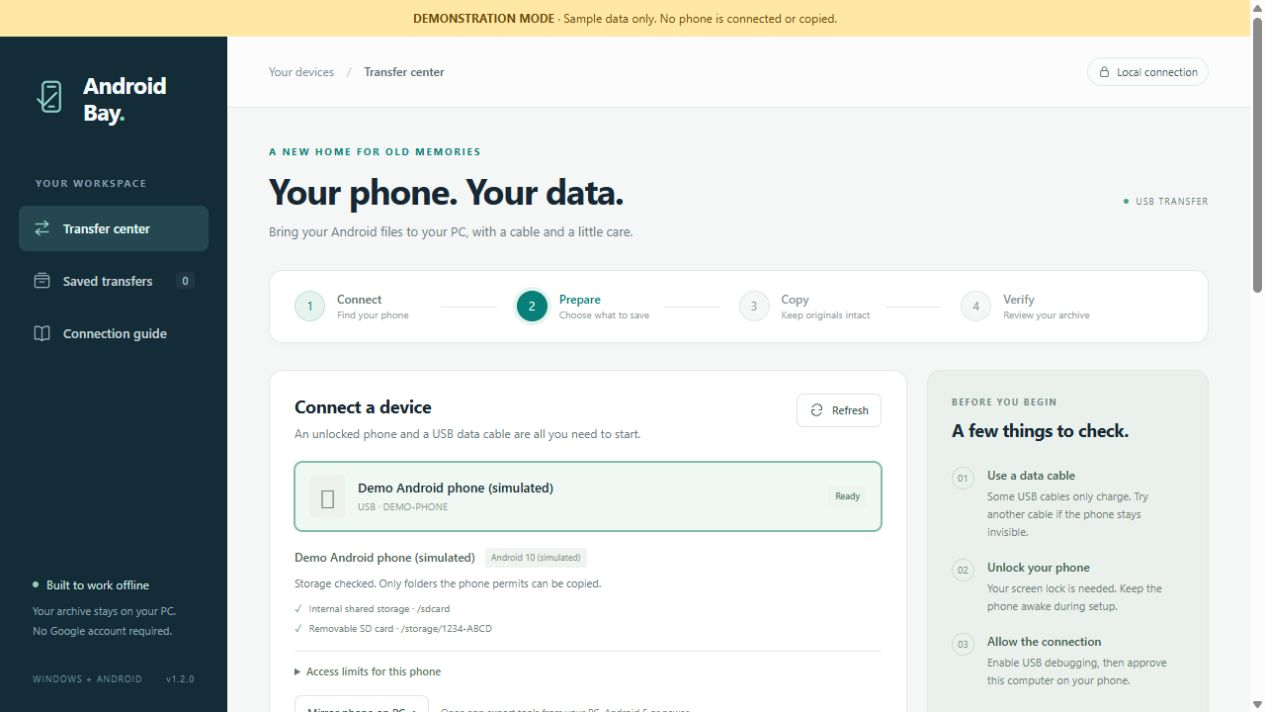
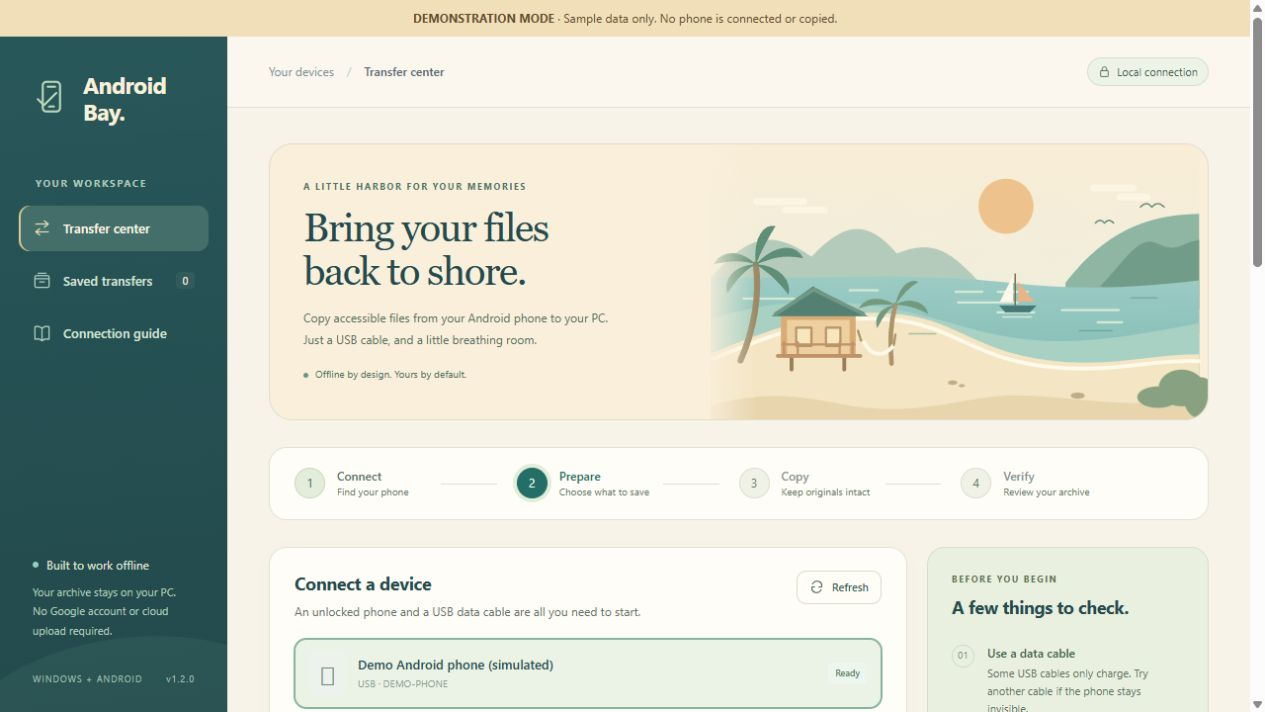
Add a coastal theme to the transfer center and archive reader
Use sea-green navigation, warm sand surfaces and an original inline SVG cove illustration. Keep decorative artwork outside saved conversations, hide it from assistive technology and avoid remote assets. Make compact navigation horizontally scrollable so every section remains reachable.

Clarify that no Google account or cloud upload is required. Refresh the README preview using synthetic demo data only.

Validation: checked both pages at desktop width and a 390-pixel viewport; exercised synthetic message selection, photo browsing and compact navigation with no console errors. All 30 focused server tests passed. No acquisition or archive-processing code changed.

diff --git a/web/index.html b/web/index.html
@@ -21,7 +21,7 @@
         <button class="nav-item" data-view="history"><svg viewBox="0 0 24 24" aria-hidden="true"><rect x="3" y="6" width="18" height="15" rx="2"/><path d="M3 10h18M7 3h10M9 14h6"/></svg>Saved transfers<span id="history-count" class="nav-count">0</span></button>
         <button class="nav-item" data-view="guide"><svg viewBox="0 0 24 24" aria-hidden="true"><path d="M12 21V5M3 3c4-1 7 0 9 2 2-2 5-3 9-2v16c-4-1-7 0-9 2-2-2-5-3-9-2z"/></svg>Connection guide</button>
       </nav>
-      <div class="sidebar-bottom"><div class="local-note"><span class="local-dot" aria-hidden="true"></span>Built to work offline</div><p>Your archive stays on your PC.<br>No Google account required.</p><div class="sidebar-version">WINDOWS + ANDROID <span id="version-label">v1.0</span></div></div>
+      <div class="sidebar-bottom"><div class="local-note"><span class="local-dot" aria-hidden="true"></span>Built to work offline</div><p>Your archive stays on your PC.<br>No Google account or cloud upload required.</p><div class="sidebar-version">WINDOWS + ANDROID <span id="version-label">v1.0</span></div></div>
     </aside>
 
     <div class="workspace">
@@ -31,7 +31,31 @@
         <div id="loading-state" class="loading-strip" role="status"><span class="spinner" aria-hidden="true"></span>Connecting to your local transfer service…</div>
 
         <section id="view-transfer" class="view" aria-labelledby="transfer-heading">
-          <div class="page-heading"><div><div class="eyebrow">A NEW HOME FOR OLD MEMORIES</div><h1 id="transfer-heading">Your phone. Your data.</h1><p>Bring your Android files to your PC, with a cable and a little care.</p></div><span class="connection-type"><span class="small-dot"></span> USB TRANSFER</span></div>
+          <div class="page-heading cove-heading"><div class="cove-copy"><div class="eyebrow">A LITTLE HARBOR FOR YOUR MEMORIES</div><h1 id="transfer-heading">Bring your files<br>back to shore.</h1><p>Copy accessible files from your Android phone to your PC.<br class="desktop-break"> Just a USB cable, and a little breathing room.</p><span class="cove-caption"><span class="small-dot"></span> Offline by design. Yours by default.</span></div><div class="cove-art" aria-hidden="true">
+<svg class="cove-scene" viewBox="0 0 640 360" xmlns="http://www.w3.org/2000/svg" focusable="false">
+  <defs><linearGradient id="cove-sky" x2="0" y2="1"><stop stop-color="#f9edd6"/><stop offset="1" stop-color="#e8eee0"/></linearGradient><linearGradient id="cove-water" x2="0" y2="1"><stop stop-color="#9ccbc4"/><stop offset="1" stop-color="#75b6ae"/></linearGradient></defs>
+  <path fill="url(#cove-sky)" d="M0 0h640v360H0z"/>
+  <circle cx="387" cy="81" r="36" fill="#edc28c"/>
+  <path d="M60 75h62m-25 11h52m352-29h53m-18 12h36" stroke="#fff9e9" stroke-width="9" opacity=".65"/>
+  <path d="M0 175c54-65 88-58 132-28 42-44 72-51 112-4 48-20 71-3 112 42H0z" fill="#b4cbbb"/>
+  <path d="M465 181c55-71 112-89 175-90v157H462z" fill="#8fb5a3"/>
+  <path d="M510 186c31-31 50-67 73-57 31 14 29 1 57-4v91z" fill="#719c8a"/>
+  <path d="M0 173c123 5 258-7 390 8 81 9 151 9 250-3v182H0z" fill="url(#cove-water)"/>
+  <path d="M0 229c129-42 233-19 325 8 102 30 170 26 315-3v126H0z" fill="#a9d1c3"/>
+  <path d="M0 274c96-40 164-61 251-51 77 9 100 54 214 62 66 5 121-11 175-10v85H0z" fill="#f4e5c4"/>
+  <path d="M0 282c93-38 159-63 249-51 76 10 102 56 215 62 75 4 117-12 176-9" fill="none" stroke="#fff9e9" stroke-width="5"/>
+  <path d="M0 341c72-17 108-13 170-1 98 19 158-9 218-11 76-2 130 17 252 7v24H0z" fill="#e8d5ae"/>
+  <g fill="none" stroke="#e4f1dc" stroke-width="3" opacity=".8"><path d="M321 193h35m20 0h39m-91 14h78m-26 13h48M43 202h67m350 15h75m-28 16h32M182 191h37"/></g>
+  <g fill="none" stroke="#528a83" stroke-width="2" opacity=".45"><path d="M260 248h35m188-4h43m25-43h34M121 228h35"/></g>
+  <g transform="translate(393 180)"><path d="M-15 31h49l-9 9H-7z" fill="#477879"/><path d="M6-10v41" stroke="#846e50" stroke-width="2"/><path d="M3-8-14 26H3z" fill="#fff8e8"/><path d="M10 0v26h21z" fill="#eab486"/><path d="M-10 46h37" stroke="#d5e8d6" stroke-width="2"/></g>
+  <g transform="translate(92 193)"><path d="M0 31h98v53H0z" fill="#d9ac77"/><path d="M8 37h82v47H8z" fill="#eed0a0"/><path d="M-12 32 42-7l72 39z" fill="#547f73"/><path d="M-7 29 43-3l65 32" fill="none" stroke="#719886" stroke-width="5"/><path d="M20 47h20v24H20zm39 0h19v24H59z" fill="#f7e7bb" stroke="#ba946b" stroke-width="3"/><path d="M14 84v18m69-18v18" stroke="#9c7c59" stroke-width="5"/><path d="M-4 84h108" stroke="#c09268" stroke-width="5"/><path d="M2 69h94" stroke="#c09268" stroke-width="3"/><path d="M4 66v18m18-18v18m55-18v18m17-18v18" stroke="#c09268" stroke-width="3"/></g>
+  <g><path d="M39 283c17-38 26-86 20-126" fill="none" stroke="#9d8a65" stroke-width="8"/><path d="M59 157c-26-25-49-13-55 0 22-5 39-5 55 0M59 157c-31 1-43 23-37 38 12-18 21-29 37-38M59 157c-4-35 11-54 26-50-12 19-19 34-26 50M59 157c31-32 56-23 62-8-28-5-39 0-62 8M59 157c31 1 48 22 43 40-16-21-28-30-43-40" fill="#5e8e76"/></g>
+  <g><path d="M237 287c-2-30-2-51 5-77" fill="none" stroke="#ad946b" stroke-width="6"/><path d="M242 210c-25-15-43-6-48 5 20-7 30-5 48-5M242 210c-22 4-28 18-24 31 8-15 12-22 24-31M242 210c5-25 19-35 30-30-13 8-21 18-30 30M242 210c20-12 41-2 43 12-17-9-28-11-43-12" fill="#73997e"/>
+  <path d="M201 259c8 16 24 23 39 4" fill="none" stroke="#fff8e7" stroke-width="5"/><path d="M197 257l-4-13m47 19 2-14" stroke="#ad946b" stroke-width="3"/></g>
+  <path d="M563 82q8-9 15 0 8-9 16 0M504 103q6-7 12 0 6-7 12 0" fill="none" stroke="#688b80" stroke-width="2"/>
+  <g fill="#88a180"><ellipse cx="586" cy="331" rx="27" ry="14"/><ellipse cx="617" cy="319" rx="30" ry="24"/><ellipse cx="642" cy="332" rx="22" ry="27"/></g>
+  <g fill="#c0ad87"><ellipse cx="317" cy="312" rx="6" ry="3"/><ellipse cx="329" cy="316" rx="4" ry="2"/><ellipse cx="481" cy="329" rx="9" ry="4"/></g>
+</svg></div></div>
           <ol class="stepper" aria-label="Transfer workflow">
             <li class="current" id="step-connect"><span class="step-number">1</span><span><strong>Connect</strong><small>Find your phone</small></span></li>
             <li id="step-prepare"><span class="step-number">2</span><span><strong>Prepare</strong><small>Choose what to save</small></span></li>
@@ -62,7 +86,7 @@
           <section id="active-job-panel" class="panel job-panel" aria-labelledby="job-heading" hidden><div class="panel-heading"><div><div class="section-kicker">YOUR TRANSFER</div><h2 id="job-heading">Copying to your PC</h2><p id="job-message" role="status"></p></div><span id="job-status" class="status-badge"></span></div><div class="progress-labels"><span id="job-phase">Preparing</span><span id="job-percent"></span></div><div id="job-progress" class="progress-track" role="progressbar" aria-label="Transfer progress" aria-valuemin="0" aria-valuemax="100"><div id="job-progress-fill"></div></div><div class="job-stats"><div><span>FILES COPIED</span><strong id="job-file-count">0</strong></div><div><span>DATA COPIED</span><strong id="job-byte-count">0 B</strong></div><div class="job-destination"><span>ARCHIVE FOLDER</span><strong id="job-destination"></strong></div></div><div class="job-actions"><button id="cancel-job" class="button button-secondary button-small">Stop transfer</button><button id="resume-job" class="button button-primary button-small" hidden>Resume transfer</button><button id="verify-job" class="button button-secondary button-small" hidden>Verify saved files</button><button id="open-job-reader" class="button button-primary button-small">Read messages &amp; media</button><button id="open-job-catalog" class="button button-secondary button-small">Browse saved files</button><button id="open-job-folder" class="button button-secondary button-small">Open archive folder</button><button id="open-job-context" class="text-button" hidden>Device activity report</button><button id="open-job-report" class="text-button">Open coverage report <span aria-hidden="true">↗</span></button></div><div id="verify-result" class="verification-result" role="status" hidden></div><section id="archive-checks" class="archive-checks" aria-labelledby="archive-checks-heading" hidden><h3 id="archive-checks-heading">Deleted items &amp; location data</h3><p>Check accessible phone trash and saved copies for trash files, explicitly deleted message records, GPS metadata and map exports. Findings stay in separate folders. Permanently erased data and private app histories may be unavailable.</p><div class="job-actions"><button id="analyze-job" class="button button-secondary button-small">Check deleted items &amp; locations</button><button id="open-job-trash" class="text-button" hidden>Phone trash report ↗</button><button id="open-job-deleted" class="text-button" hidden>Deleted-item report ↗</button><button id="open-job-locations" class="text-button" hidden>Location report ↗</button></div><div id="analysis-results" class="analysis-results" role="status"></div></section><div id="job-coverage" class="job-coverage"></div><details id="job-errors" class="error-details" hidden><summary id="job-error-summary">Items that need attention</summary><ul id="job-error-list"></ul></details></section>
 
           <section class="coverage-note" aria-labelledby="coverage-heading"><div class="information-icon" aria-hidden="true">i</div><div><h2 id="coverage-heading">Know what your archive includes.</h2><p>Android protects some data even when you know the phone’s login. Private app data, RCS chats, permanently erased files, cloud-only content and saved passwords may be unavailable. This app reports accessible files, failed copies and missing categories so a finished transfer is never mistaken for a complete phone backup.</p><button class="text-button" data-open-coverage>See data coverage &amp; limitations <span aria-hidden="true">→</span></button></div></section>
-          <footer class="page-footer"><span>MADE FOR THE DEVICES YOU STILL CARE ABOUT.</span><span>Offline by design. Yours by default.</span></footer>
+          <footer class="page-footer"><span>A QUIET LITTLE BAY. A PLACE FOR WHAT MATTERS.</span><span>Offline by design. Yours by default.</span></footer>
         </section>
 
         <section id="view-history" class="view" aria-labelledby="history-heading" hidden><div class="page-heading"><div><div class="eyebrow">YOUR LOCAL ARCHIVE</div><h1 id="history-heading">Saved transfers</h1><p>Pick up where you left off, verify a copy, or see exactly what was saved.</p></div><button id="refresh-history" class="button button-secondary">Refresh</button></div><div id="history-list" class="history-list"></div><div id="history-empty" class="panel history-empty"><div class="empty-archive-icon" aria-hidden="true">↙</div><h2>Your first archive starts here.</h2><p>Completed and interrupted transfers will appear here.<br>Your phone’s originals stay on the phone.</p><button class="button button-primary" data-return-transfer>Create a transfer <span aria-hidden="true">→</span></button></div></section>

diff --git a/web/reader.css b/web/reader.css
@@ -5,3 +5,96 @@
 @media(max-width:1050px){.messages-layout{grid-template-columns:270px minmax(0,1fr)}.media-grid{grid-template-columns:repeat(3,minmax(0,1fr))}.message-search-label{width:100%;max-width:none}.message-header{flex-direction:column;gap:13px}.message-note{flex-direction:column;gap:3px}.tool-buttons{gap:14px}.archive-tools{align-items:flex-start}.message{max-width:94%}.tabbar button{padding-left:18px;padding-right:18px}}
 @media(max-width:720px){.topbar{height:65px;padding:0 18px}.brand{font-size:.95rem;gap:8px}.brand-mark{width:30px;height:32px}.back-link{font-size:.73rem}.reader-main{padding:26px 16px 20px}.local-badge{display:none}.heading-row{margin-bottom:22px}.subtitle{font-size:.83rem}.archive-tools{flex-direction:column;gap:9px}.coverage-details{margin-bottom:17px}.tabbar{gap:0;justify-content:space-between}.tabbar button{padding:12px 8px;font-size:.81rem;gap:6px}.tab-count{font-size:.62rem;padding:1px 4px}.messages-layout{grid-template-columns:1fr}.conversation-pane{border-right:0;border-bottom:1px solid var(--line)}.conversation-top{padding:18px 17px 10px}.conversation-top h2{margin-bottom:9px}.thread-list{max-height:230px}.thread-item{padding:10px 16px}.thread-date{font-size:.7rem}.conversation-footer{padding:5px 10px 10px}.message-pane>.empty-state{min-height:300px}.message-header{padding:20px}.message-list{padding:20px 15px;max-height:600px}.message{max-width:94%}.message-bubble{padding:11px 13px}.message-note{padding:10px 20px}.media-panel{padding:18px 15px}.media-toolbar{flex-direction:column;align-items:stretch;gap:15px}.media-search-label{width:100%}.media-grid{grid-template-columns:repeat(2,minmax(0,1fr));gap:12px}.media-card-body{padding:10px}.media-card-info{font-size:.61rem}.reader-footer{align-items:flex-start;flex-direction:column;gap:5px}.index-panel{padding:23px 20px;flex-wrap:wrap;gap:15px}.index-panel>div:nth-child(2){flex:1;min-width:180px}.index-panel .button{margin-left:42px}.media-dialog{width:calc(100% - 20px);max-height:calc(100vh - 20px)}.dialog-header{padding:18px}.dialog-actions,.source-details{margin-left:18px;margin-right:18px}.playback-note{margin-left:18px;margin-right:18px}}
 @media(prefers-reduced-motion:reduce){.spinner{animation:none}.message-list{scroll-behavior:auto}}
+
+
+/* Cozy cove theme: static vector artwork, local system fonts, no remote assets. */
+:root {
+  --ink: #234a4e; --muted: #5f7169; --navy: #254f52;
+  --teal: #236f68; --teal-deep: #175b56; --teal-pale: #e8f1e6;
+  --line: #dedfcf; --canvas: #f7f3e8; --wash: #f7f3e8;
+  --paper: #fffdf6; --white: #fffdf6; --mint: #e4efdf;
+  --radius: 18px; --shadow: 0 4px 18px #526e4d05;
+}
+body { background: var(--canvas); }
+h1 { font-family: Georgia, "Times New Roman", serif; font-weight: 500; }
+.cove-heading {
+  position: relative; isolation: isolate; overflow: hidden; min-height: 280px;
+  border: 1px solid #e0dec9; border-radius: 24px; background: #f9efdb;
+  align-items: center; margin-bottom: 27px; padding: 30px 34px;
+}
+.cove-copy { position: relative; z-index: 1; width: 56%; }
+.cove-copy h1 { font-size: clamp(30px, 3.15vw, 46px); line-height: 1.08; letter-spacing: -1.6px; }
+.cove-copy .eyebrow { color: #4f7466; font-size: 9px; letter-spacing: 1.6px; margin: 0 0 13px; }
+.cove-copy p:not(.eyebrow) { max-width: 420px; font-size: 12px; line-height: 1.8; color: #586e61; margin-top: 15px; }
+.cove-caption { display: flex; align-items: center; gap: 7px; color: #4c7061; font-size: 10px; margin-top: 17px; }
+.cove-caption .small-dot { width: 5px; height: 5px; background: #609b83; }
+.cove-art { position: absolute; inset: 0 0 0 46%; z-index: 0; pointer-events: none; }
+.cove-art:before { content: ""; position: absolute; inset: 0 auto 0 0; width: 55px; background: linear-gradient(90deg,#f9efdb,transparent); z-index: 1; }
+.cove-scene { display: block; width: 100%; height: 100%; stroke: none; fill: none; }
+.cove-scene path { stroke-linecap: round; stroke-linejoin: round; }
+.demo-banner { background: #f1dfb9; color: #644c2b; }
+.button, .button-secondary, .secondary { border-radius: 10px; }
+.button-primary, .primary { background: var(--teal); box-shadow: 0 3px 8px #236f6814; color: #fffdf4; }
+.button-primary:not(:disabled):hover, .primary:hover { background: var(--teal-deep); }
+.button-secondary, .secondary { background: #fffdf6; border-color: #d5ddcc; color: #345b53; }
+.button-secondary:not(:disabled):hover, .secondary:hover { background: #eff3e7; border-color: #a2bcaa; }
+.button:focus-visible, a:focus-visible, input:focus-visible, textarea:focus-visible, summary:focus-visible { outline-color: #2e827c; }
+input::placeholder, textarea::placeholder { color: #738074; }
+@media (max-width: 1100px) {
+  .cove-heading { min-height: 260px; padding: 27px; }
+  .cove-copy { width: 59%; }
+  .cove-art { left: 49%; right: -45px; }
+  .cove-copy h1 { font-size: 36px; }
+  .cove-copy p:not(.eyebrow) { max-width: 330px; }
+}
+@media (max-width: 720px) {
+  .cove-heading { min-height: 0; padding: 25px 24px 175px; border-radius: 20px; }
+  .cove-copy { width: 100%; }
+  .cove-copy h1 { font-size: 35px; letter-spacing: -1.2px; }
+  .cove-copy .eyebrow { font-size: 8px; letter-spacing: 1.25px; }
+  .cove-copy p:not(.eyebrow) { max-width: 420px; font-size: 12px; }
+  .cove-art { inset: auto 0 -26px; height: 205px; }
+  .cove-art:before { display: none; }
+  .cove-scene { object-fit: cover; }
+  .cove-caption { margin-top: 12px; }
+}
+@media (forced-colors: active) {
+  .cove-art { display: none; }
+  .cove-heading { padding: 24px; min-height: 0; }
+  .cove-copy { width: 100%; }
+}
+
+/* Keep saved content on quiet paper; scenery stays outside conversations. */
+.topbar { background: #285356; }
+.brand-dot { color: #e1d3a6; }
+.brand-mark { background: #497770; color: #faf0d4; }
+.back-link { color: #e0ead6; }
+.reader-main { padding-top: 30px; }
+.cove-heading { display: flex; }
+.cove-copy { width: 59%; }
+.cove-copy h1 { font-size: clamp(30px,3vw,44px); }
+.cove-copy .local-badge { display: inline-flex; margin-top: 16px; background: #edf2df; color: #496950; border-color: #cddbc1; }
+.index-panel, .messages-layout, .media-panel { background: #fffdf8; border-color: #dce0cd; }
+.conversation-pane { background: #f6f6eb; border-color: #dde2ce; }
+.thread-item:hover { background: #edf1df; }
+.thread-item.selected { background: #e4eed9; border-left-color: #397a68; }
+.thread-avatar { background: #e8e9d4; color: #57694e; }
+.thread-item.selected .thread-avatar { background: #cddfbe; color: #365f44; }
+.message-list { background: #fffdf8; }
+.message-bubble { background: #f4eddc; border-color: #e6dec8; }
+.outgoing .message-bubble { background: #e4efdf; border-color: #ccddc3; }
+.message-note { background: #f2f3e7; color: #5f755f; }
+.message-meta, .thread-date, .thread-snippet, .thread-total { color: #60705e; }
+.tabbar { border-color: #ced9c5; }
+.tabbar button:hover { background: #edf1df; }
+.tabbar button[aria-selected=true] .tab-count { background: #d8e7cd; color: #426346; }
+.coverage-details { background: #eef0e1; border-color: #d6dec8; }
+.coverage-details summary, .coverage-content { color: #52664e; }
+.empty-icon { background: #eef2df; color: #6d906b; border-color: #d2dfc3; }
+.media-thumbnail { background: #e9eddd; }
+.media-glyph { background: #dbe3ca; color: #628164; }
+.media-card.video .media-thumbnail { background: linear-gradient(135deg,#426f6d,#77a69c); }
+.media-card.audio .media-thumbnail { background: linear-gradient(135deg,#e9dfc1,#f6edcf); }
+.media-card.audio .media-glyph { background: #daceaa; color: #746447; }
+.reader-footer { color: #62735f; }
+@media (max-width: 720px) { .cove-copy { width: 100%; } .cove-copy h1 { font-size: 33px; } }

diff --git a/web/app.css b/web/app.css
@@ -15,3 +15,112 @@
 
 .archive-checks{margin-top:24px;padding:20px;border:1px solid var(--border,#dce5e2);border-radius:12px;background:var(--surface,#fff)}
 .archive-checks h3{margin:0 0 8px}.archive-checks>p{color:var(--muted,#566761);line-height:1.5;max-width:850px}.analysis-results p{margin:8px 0;font-size:14px;line-height:1.5}
+
+
+/* Cozy cove theme: static vector artwork, local system fonts, no remote assets. */
+:root {
+  --ink: #234a4e; --muted: #5f7169; --navy: #254f52;
+  --teal: #236f68; --teal-deep: #175b56; --teal-pale: #e8f1e6;
+  --line: #dedfcf; --canvas: #f7f3e8; --wash: #f7f3e8;
+  --paper: #fffdf6; --white: #fffdf6; --mint: #e4efdf;
+  --radius: 18px; --shadow: 0 4px 18px #526e4d05;
+}
+body { background: var(--canvas); }
+h1 { font-family: Georgia, "Times New Roman", serif; font-weight: 500; }
+.cove-heading {
+  position: relative; isolation: isolate; overflow: hidden; min-height: 280px;
+  border: 1px solid #e0dec9; border-radius: 24px; background: #f9efdb;
+  align-items: center; margin-bottom: 27px; padding: 30px 34px;
+}
+.cove-copy { position: relative; z-index: 1; width: 56%; }
+.cove-copy h1 { font-size: clamp(30px, 3.15vw, 46px); line-height: 1.08; letter-spacing: -1.6px; }
+.cove-copy .eyebrow { color: #4f7466; font-size: 9px; letter-spacing: 1.6px; margin: 0 0 13px; }
+.cove-copy p:not(.eyebrow) { max-width: 420px; font-size: 12px; line-height: 1.8; color: #586e61; margin-top: 15px; }
+.cove-caption { display: flex; align-items: center; gap: 7px; color: #4c7061; font-size: 10px; margin-top: 17px; }
+.cove-caption .small-dot { width: 5px; height: 5px; background: #609b83; }
+.cove-art { position: absolute; inset: 0 0 0 46%; z-index: 0; pointer-events: none; }
+.cove-art:before { content: ""; position: absolute; inset: 0 auto 0 0; width: 55px; background: linear-gradient(90deg,#f9efdb,transparent); z-index: 1; }
+.cove-scene { display: block; width: 100%; height: 100%; stroke: none; fill: none; }
+.cove-scene path { stroke-linecap: round; stroke-linejoin: round; }
+.demo-banner { background: #f1dfb9; color: #644c2b; }
+.button, .button-secondary, .secondary { border-radius: 10px; }
+.button-primary, .primary { background: var(--teal); box-shadow: 0 3px 8px #236f6814; color: #fffdf4; }
+.button-primary:not(:disabled):hover, .primary:hover { background: var(--teal-deep); }
+.button-secondary, .secondary { background: #fffdf6; border-color: #d5ddcc; color: #345b53; }
+.button-secondary:not(:disabled):hover, .secondary:hover { background: #eff3e7; border-color: #a2bcaa; }
+.button:focus-visible, a:focus-visible, input:focus-visible, textarea:focus-visible, summary:focus-visible { outline-color: #2e827c; }
+input::placeholder, textarea::placeholder { color: #738074; }
+@media (max-width: 1100px) {
+  .cove-heading { min-height: 260px; padding: 27px; }
+  .cove-copy { width: 59%; }
+  .cove-art { left: 49%; right: -45px; }
+  .cove-copy h1 { font-size: 36px; }
+  .cove-copy p:not(.eyebrow) { max-width: 330px; }
+}
+@media (max-width: 720px) {
+  .cove-heading { min-height: 0; padding: 25px 24px 175px; border-radius: 20px; }
+  .cove-copy { width: 100%; }
+  .cove-copy h1 { font-size: 35px; letter-spacing: -1.2px; }
+  .cove-copy .eyebrow { font-size: 8px; letter-spacing: 1.25px; }
+  .cove-copy p:not(.eyebrow) { max-width: 420px; font-size: 12px; }
+  .cove-art { inset: auto 0 -26px; height: 205px; }
+  .cove-art:before { display: none; }
+  .cove-scene { object-fit: cover; }
+  .cove-caption { margin-top: 12px; }
+}
+@media (forced-colors: active) {
+  .cove-art { display: none; }
+  .cove-heading { padding: 24px; min-height: 0; }
+  .cove-copy { width: 100%; }
+}
+
+/* Coastal surfaces keep the transfer controls and status colors distinct. */
+.sidebar { background: linear-gradient(175deg,#28575a,#23494b); overflow: hidden; }
+.sidebar:after { content: ""; position: absolute; width: 360px; height: 200px; bottom: -125px; left: -50px; border-radius: 47% 53% 0 0; background: #71a8991b; transform: rotate(-10deg); pointer-events: none; }
+.brand, .brand-dot { color: #faf0d9; }
+.brand-symbol { color: #b9d8ba; }
+.workspace-label { color: #b0c8bd; }
+.nav-item { color: #d6e3d7; border-radius: 11px; }
+.nav-item svg { color: #adccc0; }
+.nav-item:hover { background: #ffffff0d; }
+.nav-item.active { color: #fff6e5; background: #436e69; box-shadow: inset 2px 0 #dac895; }
+.nav-item.active svg { color: #e4dbb4; }
+.nav-count { color: #e4e9d7; }
+.local-note { color: #e1e8d3; }
+.sidebar-bottom p { color: #b2cbbd; }
+.sidebar-version { color: #a3c1b4; }
+.topbar { background: #fbf8efd9; border-color: #e0e2d5; }
+.privacy-pill { background: #edf3e6; border-color: #d5dfca; color: #466552; }
+.stepper { background: #fffdf7; border-color: #e0e2d4; box-shadow: none; }
+.step-number { background: #f1f2e7; border-color: #d9dfce; color: #687b65; }
+.stepper small { color: #68796b; }
+.stepper .current .step-number { box-shadow: 0 0 0 4px #e3edda; }
+.stepper .complete .step-number { background: #e4eddb; color: #386c55; border-color: #c7d9ba; }
+.panel { background: #fffdf8; border-color: #e0e2d4; }
+.readiness-card { background: #eaf0df; border-color: #d6dfc8; }
+.readiness-list p { color: #60735e; }
+.readiness-list strong { color: #405d49; }
+.section-kicker { color: #59704f; }
+.panel-footnote { background: #f1f4e9; color: #586e58; border-color: #e0e5d5; }
+.device-illustration:before { background: #e7edd8; }
+.illustration-screen { fill: #edf2e5; }
+.illustration-phone { fill: #fff8e8; }
+.device-card { border-radius: 12px; }
+.device-card.selected, .device-card:has(input:checked) { background: #ebf3e6; border-color: #89af95; }
+.field-label, .copy-options legend { color: #435b4d; }
+.field-help, .option-detail, .helper-callout p, .start-row p, .coverage-note p { color: #61715f; }
+.option-card { border-radius: 12px; border-color: #e0e2d1; }
+.option-card:has(input:checked) { background: #f3f6eb; border-color: #d7e1cb; }
+.option-title { color: #385643; }
+.recommended-tag { background: #e2ebd6; color: #526d49; }
+.helper-callout { background: #eef1e3; border-radius: 12px; }
+.destination-row input, textarea { background: #fffdf6; border-color: #cdd8c1; }
+.start-row { background: #f2f3e7; border-color: #dce2cd; }
+.coverage-note h2 { color: #52694f; }
+.page-footer { color: #62725f; border-color: #dde1d0; }
+.advanced-options summary { color: #536c53; }
+@media (max-width: 720px) {
+  .sidebar:after { display: none; }
+  .nav-list { overflow-x: auto; padding-bottom: 4px; }
+  .nav-item { flex-shrink: 0; }
+}

diff --git a/web/reader.html b/web/reader.html
@@ -14,7 +14,31 @@
   <div id="demo-banner" class="demo-banner" hidden><strong>DEMONSTRATION MODE</strong> · Synthetic archive. No real phone data.</div>
   <header class="topbar"><a class="brand" href="/" aria-label="Android Bay home"><span class="brand-mark" aria-hidden="true">↙</span><span>Android Bay<span class="brand-dot">.</span></span></a><a class="back-link" href="/">← Back to Android Bay</a></header>
   <main id="reader-main" class="reader-main" tabindex="-1">
-    <div class="heading-row"><div><p class="eyebrow">YOUR LOCAL ARCHIVE</p><h1>Find the moments you saved.</h1><p id="archive-label" class="subtitle">Messages, photos, videos and audio, together in one place.</p></div><div class="local-badge"><span aria-hidden="true"></span>Read-only view</div></div>
+    <div class="heading-row cove-heading"><div class="cove-copy"><p class="eyebrow">YOUR OWN LITTLE COVE</p><h1>Settle in.<br>Your memories are here.</h1><p id="archive-label" class="subtitle">Messages, photos, videos and audio, together in one place.</p><div class="local-badge"><span aria-hidden="true"></span>Read-only view</div></div><div class="cove-art" aria-hidden="true">
+<svg class="cove-scene" viewBox="0 0 640 360" xmlns="http://www.w3.org/2000/svg" focusable="false">
+  <defs><linearGradient id="cove-sky" x2="0" y2="1"><stop stop-color="#f9edd6"/><stop offset="1" stop-color="#e8eee0"/></linearGradient><linearGradient id="cove-water" x2="0" y2="1"><stop stop-color="#9ccbc4"/><stop offset="1" stop-color="#75b6ae"/></linearGradient></defs>
+  <path fill="url(#cove-sky)" d="M0 0h640v360H0z"/>
+  <circle cx="387" cy="81" r="36" fill="#edc28c"/>
+  <path d="M60 75h62m-25 11h52m352-29h53m-18 12h36" stroke="#fff9e9" stroke-width="9" opacity=".65"/>
+  <path d="M0 175c54-65 88-58 132-28 42-44 72-51 112-4 48-20 71-3 112 42H0z" fill="#b4cbbb"/>
+  <path d="M465 181c55-71 112-89 175-90v157H462z" fill="#8fb5a3"/>
+  <path d="M510 186c31-31 50-67 73-57 31 14 29 1 57-4v91z" fill="#719c8a"/>
+  <path d="M0 173c123 5 258-7 390 8 81 9 151 9 250-3v182H0z" fill="url(#cove-water)"/>
+  <path d="M0 229c129-42 233-19 325 8 102 30 170 26 315-3v126H0z" fill="#a9d1c3"/>
+  <path d="M0 274c96-40 164-61 251-51 77 9 100 54 214 62 66 5 121-11 175-10v85H0z" fill="#f4e5c4"/>
+  <path d="M0 282c93-38 159-63 249-51 76 10 102 56 215 62 75 4 117-12 176-9" fill="none" stroke="#fff9e9" stroke-width="5"/>
+  <path d="M0 341c72-17 108-13 170-1 98 19 158-9 218-11 76-2 130 17 252 7v24H0z" fill="#e8d5ae"/>
+  <g fill="none" stroke="#e4f1dc" stroke-width="3" opacity=".8"><path d="M321 193h35m20 0h39m-91 14h78m-26 13h48M43 202h67m350 15h75m-28 16h32M182 191h37"/></g>
+  <g fill="none" stroke="#528a83" stroke-width="2" opacity=".45"><path d="M260 248h35m188-4h43m25-43h34M121 228h35"/></g>
+  <g transform="translate(393 180)"><path d="M-15 31h49l-9 9H-7z" fill="#477879"/><path d="M6-10v41" stroke="#846e50" stroke-width="2"/><path d="M3-8-14 26H3z" fill="#fff8e8"/><path d="M10 0v26h21z" fill="#eab486"/><path d="M-10 46h37" stroke="#d5e8d6" stroke-width="2"/></g>
+  <g transform="translate(92 193)"><path d="M0 31h98v53H0z" fill="#d9ac77"/><path d="M8 37h82v47H8z" fill="#eed0a0"/><path d="M-12 32 42-7l72 39z" fill="#547f73"/><path d="M-7 29 43-3l65 32" fill="none" stroke="#719886" stroke-width="5"/><path d="M20 47h20v24H20zm39 0h19v24H59z" fill="#f7e7bb" stroke="#ba946b" stroke-width="3"/><path d="M14 84v18m69-18v18" stroke="#9c7c59" stroke-width="5"/><path d="M-4 84h108" stroke="#c09268" stroke-width="5"/><path d="M2 69h94" stroke="#c09268" stroke-width="3"/><path d="M4 66v18m18-18v18m55-18v18m17-18v18" stroke="#c09268" stroke-width="3"/></g>
+  <g><path d="M39 283c17-38 26-86 20-126" fill="none" stroke="#9d8a65" stroke-width="8"/><path d="M59 157c-26-25-49-13-55 0 22-5 39-5 55 0M59 157c-31 1-43 23-37 38 12-18 21-29 37-38M59 157c-4-35 11-54 26-50-12 19-19 34-26 50M59 157c31-32 56-23 62-8-28-5-39 0-62 8M59 157c31 1 48 22 43 40-16-21-28-30-43-40" fill="#5e8e76"/></g>
+  <g><path d="M237 287c-2-30-2-51 5-77" fill="none" stroke="#ad946b" stroke-width="6"/><path d="M242 210c-25-15-43-6-48 5 20-7 30-5 48-5M242 210c-22 4-28 18-24 31 8-15 12-22 24-31M242 210c5-25 19-35 30-30-13 8-21 18-30 30M242 210c20-12 41-2 43 12-17-9-28-11-43-12" fill="#73997e"/>
+  <path d="M201 259c8 16 24 23 39 4" fill="none" stroke="#fff8e7" stroke-width="5"/><path d="M197 257l-4-13m47 19 2-14" stroke="#ad946b" stroke-width="3"/></g>
+  <path d="M563 82q8-9 15 0 8-9 16 0M504 103q6-7 12 0 6-7 12 0" fill="none" stroke="#688b80" stroke-width="2"/>
+  <g fill="#88a180"><ellipse cx="586" cy="331" rx="27" ry="14"/><ellipse cx="617" cy="319" rx="30" ry="24"/><ellipse cx="642" cy="332" rx="22" ry="27"/></g>
+  <g fill="#c0ad87"><ellipse cx="317" cy="312" rx="6" ry="3"/><ellipse cx="329" cy="316" rx="4" ry="2"/><ellipse cx="481" cy="329" rx="9" ry="4"/></g>
+</svg></div></div>
     <div id="notice" class="notice" role="alert" hidden><span id="notice-text"></span><button id="dismiss-notice" type="button" aria-label="Dismiss notification">×</button></div>
     <section id="index-panel" class="index-panel" aria-labelledby="index-heading"><div id="index-spinner" class="spinner" aria-hidden="true"></div><div><h2 id="index-heading">Opening your archive</h2><p id="index-message" role="status">Checking the local index…</p><p class="small-muted">The first visit builds a searchable index from saved files. Your original archive files stay unchanged.</p></div><button id="build-index" type="button" class="button primary" hidden>Build archive index</button></section>
     <section id="reader-content" hidden>
